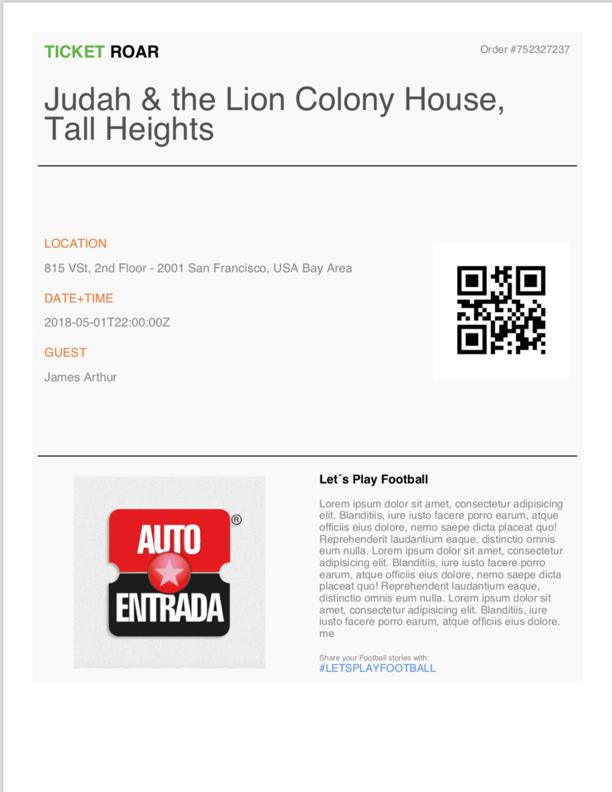
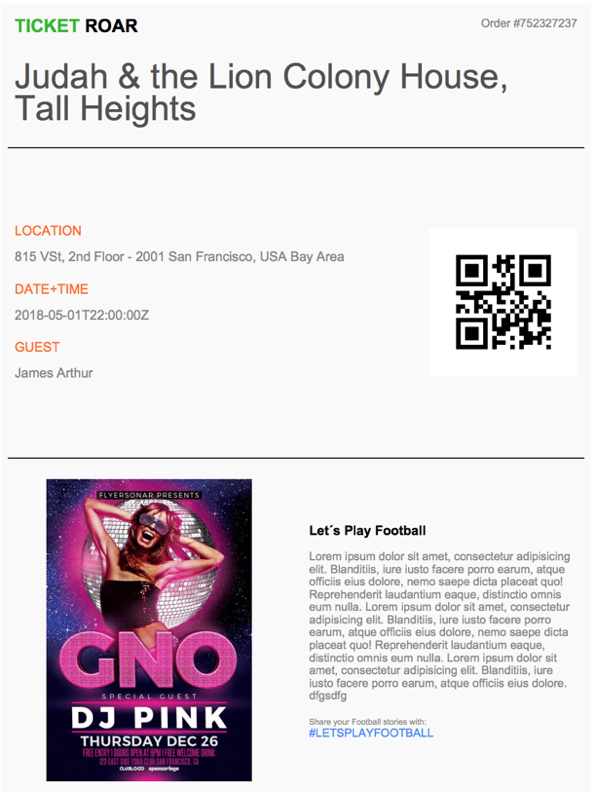
add templates as  migrations

Changed region(s): [[0.0604, 0.5758, 0.9664, 1.0], [0.0, 0.0, 0.9966, 1.0], [0.7248, 0.303, 0.9362, 0.4545]]

diff --git a/static/css/image-picker.css b/static/css/image-picker.css
@@ -25,7 +25,8 @@ ul.thumbnails.image_picker_selector {
       -moz-user-select: none;
       -ms-user-select: none; }
       ul.thumbnails.image_picker_selector li .thumbnail img {
-        width: 330px;
+        width: 310px;
+        height: 380px;
         -webkit-user-drag: none; }
     ul.thumbnails.image_picker_selector li .thumbnail.selected {
       background: #0088cc;

diff --git a/templates/customizations/create.html b/templates/customizations/create.html
@@ -5,7 +5,8 @@
 <link rel="stylesheet" type="text/css" href="{% static 'css/image-picker.css' %}">
 <style type=“text/css”>
    .thumbnail>img{
-       width: 300px;
+       width: 310px;
+       max-height: 380px;
    }
 </style>
 <script src="https://ajax.googleapis.com/ajax/libs/jquery/3.3.1/jquery.min.js"></script>
